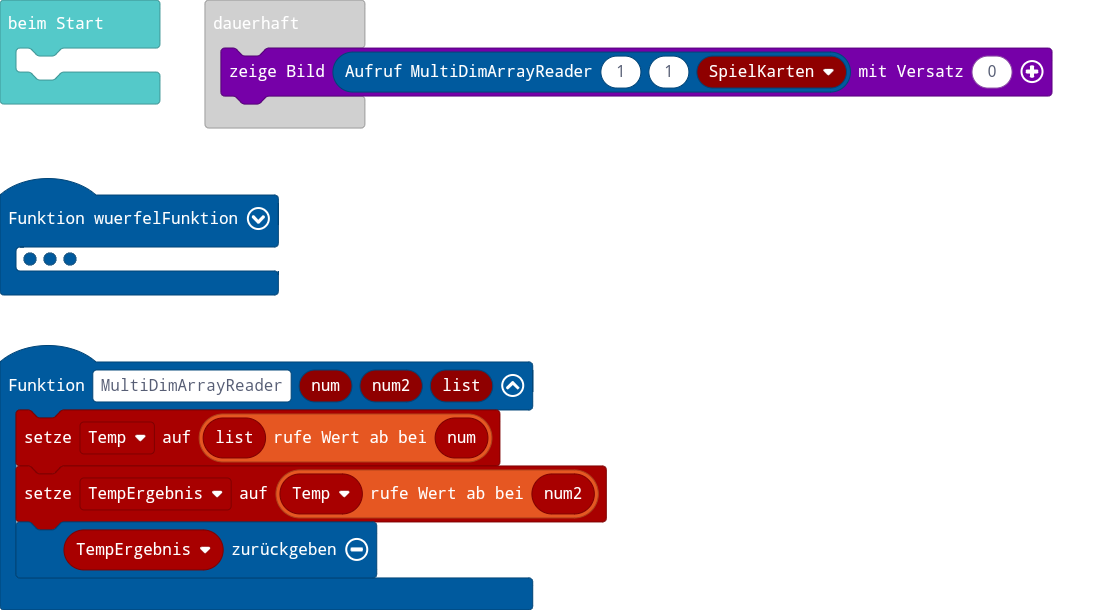
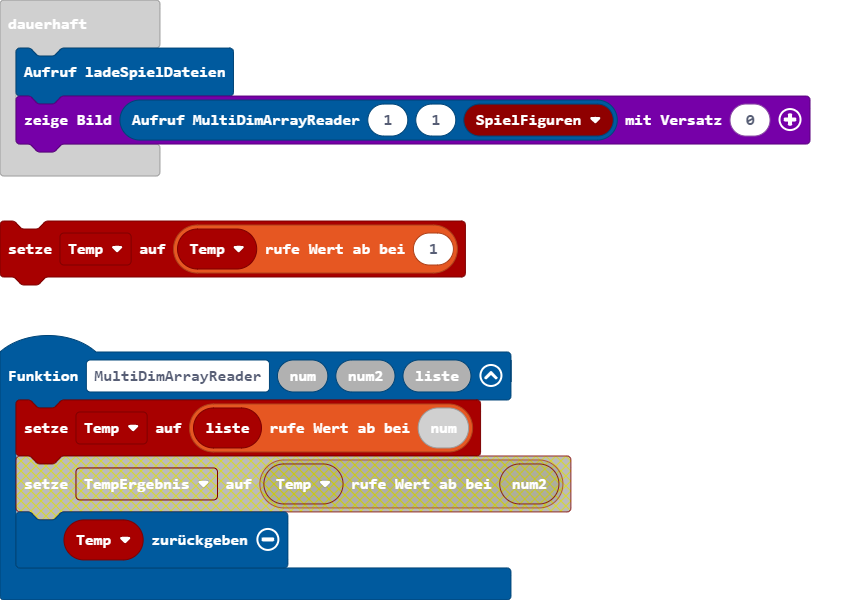
Aktualisiere main.blocks, main.ts

diff --git a/main.ts b/main.ts
@@ -3,7 +3,6 @@ let SpielKarten: Image[][] = []
 let Punkte: number[] = []
 let AugenZahlWürfel: number[] = []
 let Temp: any = null
-let TempErgebnis: Image = null
 function ladeSpielDateien () {
     SpielFiguren = [[
     images.createImage(`
@@ -225,11 +224,12 @@ function wuerfelFunktion () {
     AugenZahlWürfel = [randint(1, 6), randint(1, 6), randint(1, 6)]
     basic.showNumber(AugenZahlWürfel[0] + (AugenZahlWürfel[1] + AugenZahlWürfel[2]))
 }
-function MultiDimArrayReader (num: number, num2: number, list: any[]) {
-    Temp = list[num]
-    TempErgebnis = Temp[num2]
-    return TempErgebnis
+function MultiDimArrayReader (num: number, num2: number, liste: any[]) {
+    Temp = liste[num]
+    Temp = Temp[1]
+    return Temp
 }
 basic.forever(function () {
-    MultiDimArrayReader(1, 1, SpielKarten).showImage(0)
+    ladeSpielDateien()
+    MultiDimArrayReader(1, 1, SpielFiguren).showImage(0)
 })
